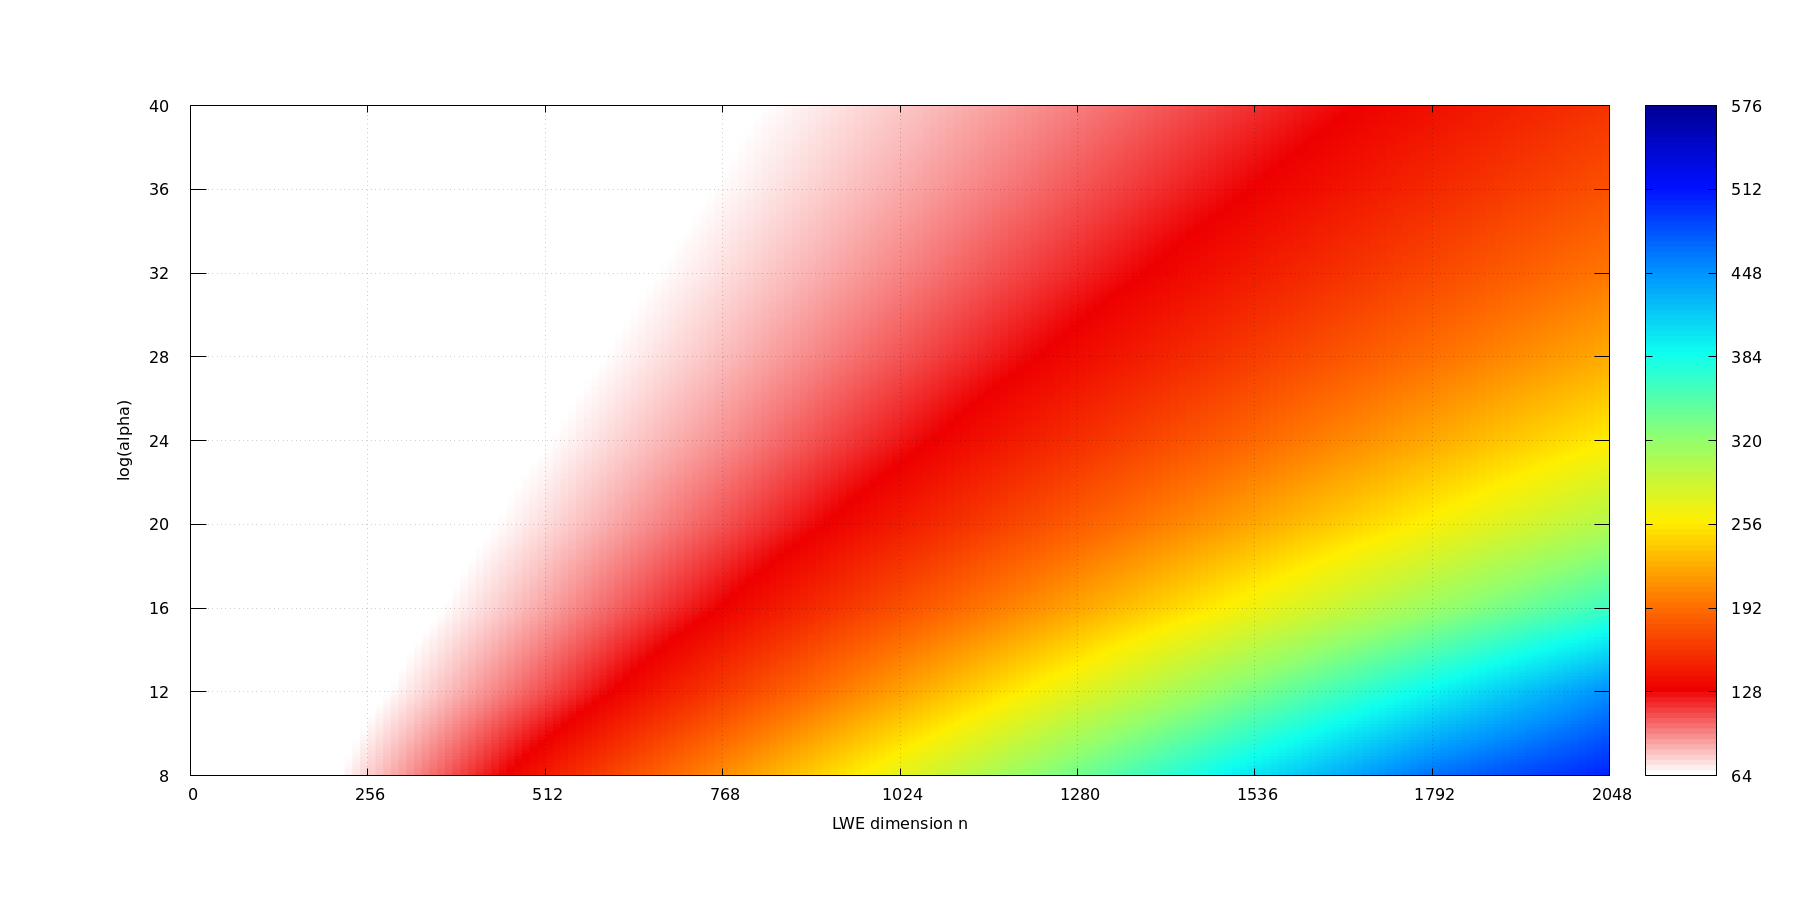
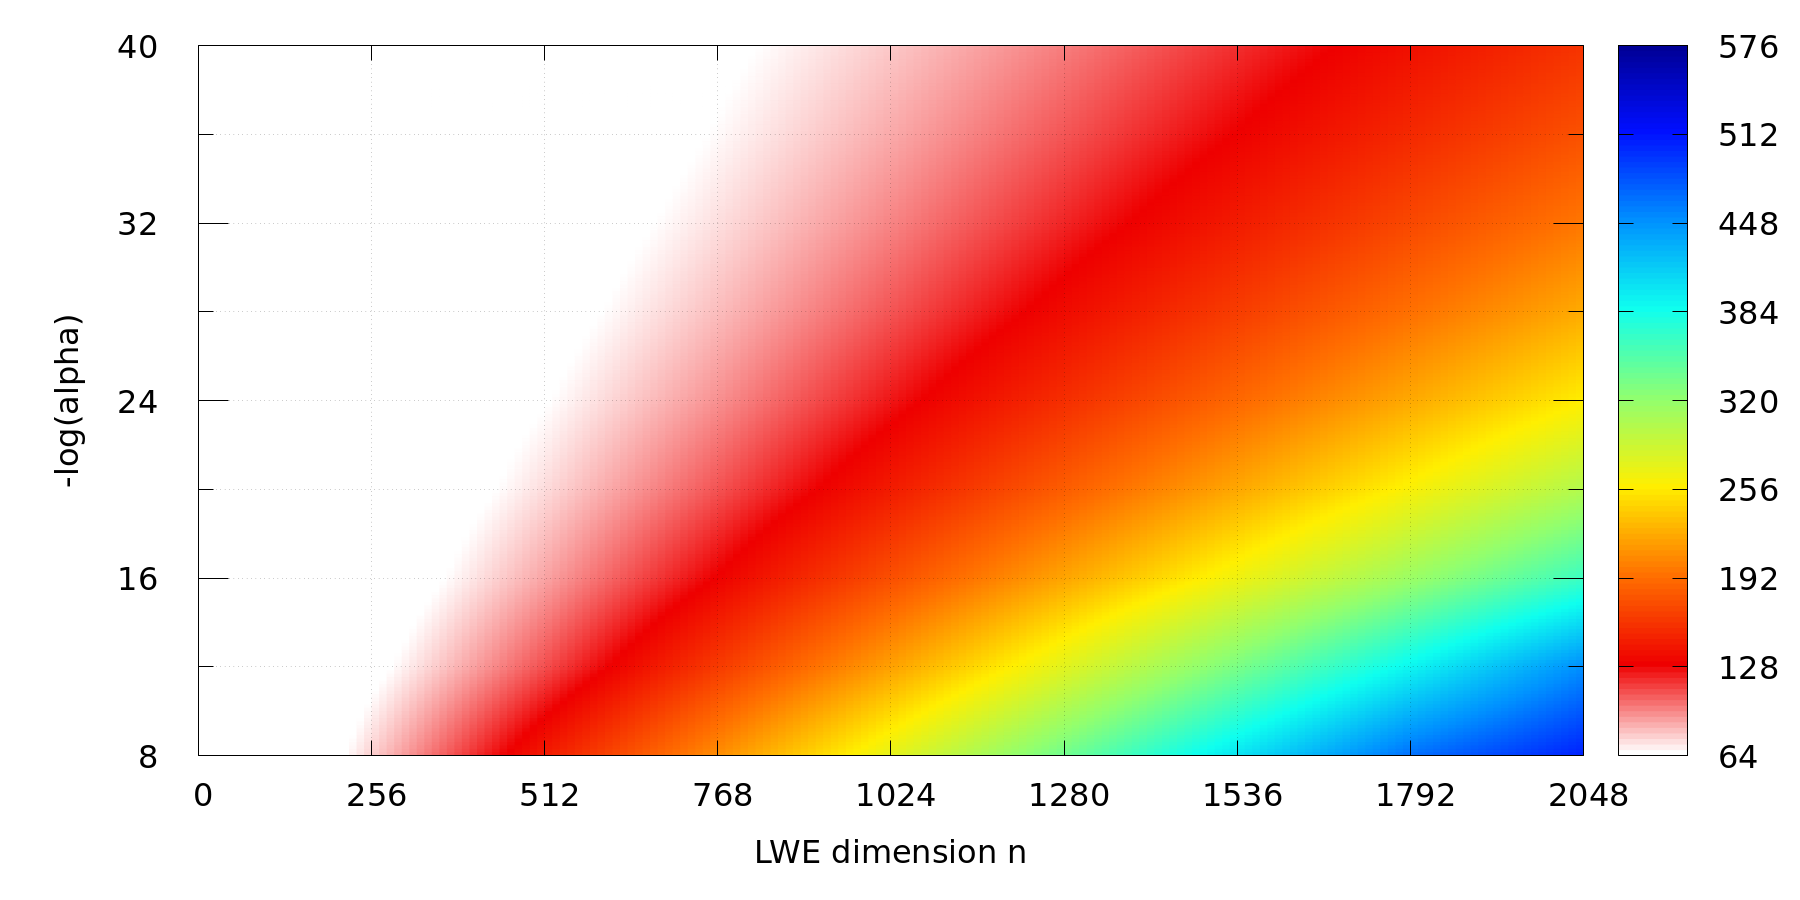
Updating also png & README.

diff --git a/loop-params.rb b/loop-params.rb
@@ -27,8 +27,8 @@ LWE_EST_TMP_PARAMS_SAGE_PY = LWE_EST_TMP_PARAMS_SAGE + ".py"
 # output paths
 STR_RANGES = "n=#{N_RANGE_L}-#{N_STEP}-#{N_RANGE_U}_mla=#{MLA_RANGE_L}-#{MLA_STEP}-#{MLA_RANGE_U}"
 RES_FILE = "#{RES_FILE_BASE}__#{STR_RANGES}.dat"
-#~ OUT_FILE = "#{RES_FILE_BASE}__#{STR_RANGES}.png"
-OUT_FILE = "#{RES_FILE_BASE}__#{STR_RANGES}.tex"
+OUT_FILE = "#{RES_FILE_BASE}__#{STR_RANGES}.png"
+#~ OUT_FILE = "#{RES_FILE_BASE}__#{STR_RANGES}.tex"
 
 def lwe_est(n, mla)
     est_code = '

diff --git a/README.md b/README.md
@@ -1,20 +1,52 @@
 
 # LWE Estimates
 
-Using `lattice-estimator` by Albrecht et al. [1,2], we calculated the bit-security of TLWE with standard deviation of noise denoted by $\alpha$ and dimension denoted by $n$ (assuming 64-bit Torus representation); see the resulting graph below.
+Using `lattice-estimator` by Albrecht et al. [1,2] (commit `f9dc7c`), we evaluate the estimated bit-security of (R)LWE over the torus, considering a finite, 64-bit representation of the torus.
+Internally, we run the following estimator code:
+```sage
+import sys
+# lattice-estimator & this repo are expected to live next to each other:
+sys.path.append("../lattice-estimator/")
 
-![Graph](lwe-security__n=128-32-2048_mla=8-2-40.png)
+from estimator import *
+from estimator.lwe_parameters import LWEParameters
+from estimator.nd import NoiseDistribution as ND
 
-The source values are given in `lwe-security-db.yaml` in a form of $(n, -\log(\alpha))$ pairs, the file `lwe-security__n=128-32-2048_mla=8-2-40.dat` serves as a data source for the graph.
+LWE.estimate(LWEParameters(n=1024, q=2^64, Xs=ND.Uniform(0,1),
+    Xe=ND.DiscreteGaussianAlpha(2^-24, 2^64), m=sage.all.oo))
+```
+which gives at output:
+```
+bkw                  :: rop: ≈2^211.1, m: ≈2^196.6, mem: ≈2^197.6, b: 3, t1: 0, t2: 50, ℓ: 2, #cod: 955, #top: 0, #test: 69, tag: coded-bkw
+usvp                 :: rop: ≈2^125.2, red: ≈2^125.2, δ: 1.004506, β: 334, d: 1875, tag: usvp
+bdd                  :: rop: ≈2^147.9, red: ≈2^115.5, svp: ≈2^147.9, β: 299, η: 454, d: 1782, tag: bdd
+bdd_hybrid           :: rop: ≈2^271.9, red: ≈2^116.4, svp: ≈2^271.9, β: 299, η: 898, ζ: 0, |S|: 1, d: 3065, prob: 1, ↻: 1, tag: hybrid
+bdd_mitm_hybrid      :: rop: ≈2^523.4, red: ≈2^522.6, svp: ≈2^522.1, β: 299, η: 2, ζ: 374, |S|: ≈2^185.8, d: 2691, prob: ≈2^-404.2, ↻: ≈2^406.4, tag: hybrid
+dual                 :: rop: ≈2^128.0, mem: ≈2^71.4, m: 948, β: 340, d: 1972, ↻: 1, tag: dual
+dual_hybrid          :: rop: ≈2^122.3, mem: ≈2^118.3, m: 909, β: 319, d: 1880, ↻: 1, ζ: 53, tag: dual_hybrid
+{'arora-gb': rop: ≈2^inf, dreg: ≈2^inf, tag: arora-gb, /other values omitted/}
+```
+
+As the decisive security estimate, we take the lowest `rop` value -- the documentation of the estimator (e.g., in `/estimator/lwe_guess.py`) states:
+```
+rop: Total number of word operations (approx. CPU cycles)
+```
+i.e., from the previous output, we read 122.3 bits of security.
+
+In the graph below, we provide security estimates for noise values between 2^-8 .. 2^-40 (standard deviation of noise, denoted alpha; log-scale) and for dimension n between 0 .. 2048.
+Note that values are interpolated between grid points.
+
+![Graph](lwe-security__n=0-256-2048_mla=8-4-40.png)
+
+The source values can be found in `lwe-security-db.yaml` in a form of (n, -log(alpha)) pairs, the file `lwe-security__n=0-256-2048_mla=8-4-40.dat` serves as a data source for the graph.
 
 
 ### Previous Version: LWE Estimator
 
-Using *LWE Estimator* by Albrecht et al. [3], we calculated the bit-security of TLWE with standard deviation of noise denoted by $\alpha$ and dimension denoted by $n$ (assuming 64-bit Torus representation); see the resulting graph below.
+For reference, we provide a similar graph for the predecessor of `lattice-estimator`, named `LWE Estimator` [3] (also by Albrecht et al.).
 
-![Graph](__old__lwe-security__n=128-32-2048_mla=8-2-40.png)
+![Graph](old-results/__old__lwe-security__n=128-32-2048_mla=8-2-40.png)
 
-The source values are given in `__old__lwe-security-db.yaml` in a form of $(n, -\log(\alpha))$ pairs, the file `__old__lwe-security__n=128-32-2048_mla=8-2-40.dat` serves as a data source for the graph.
 
 ### References
 
